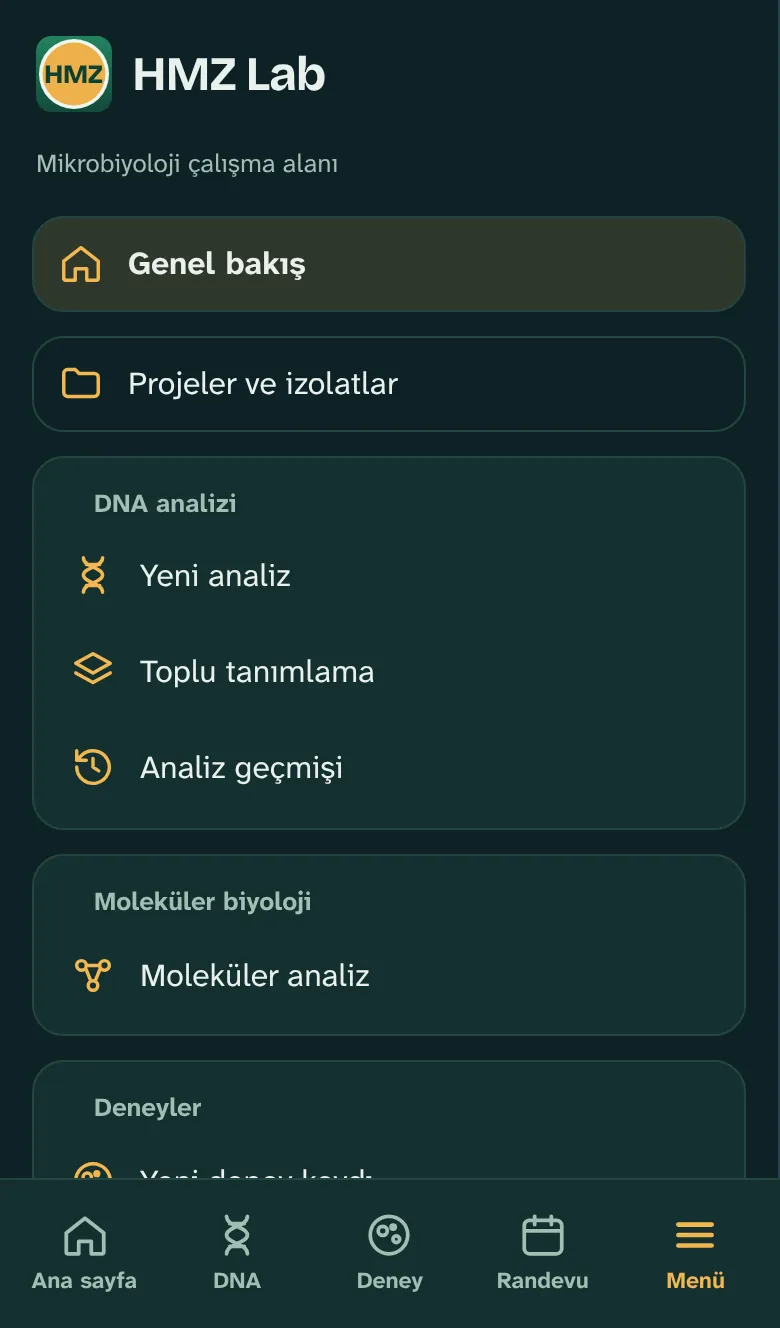
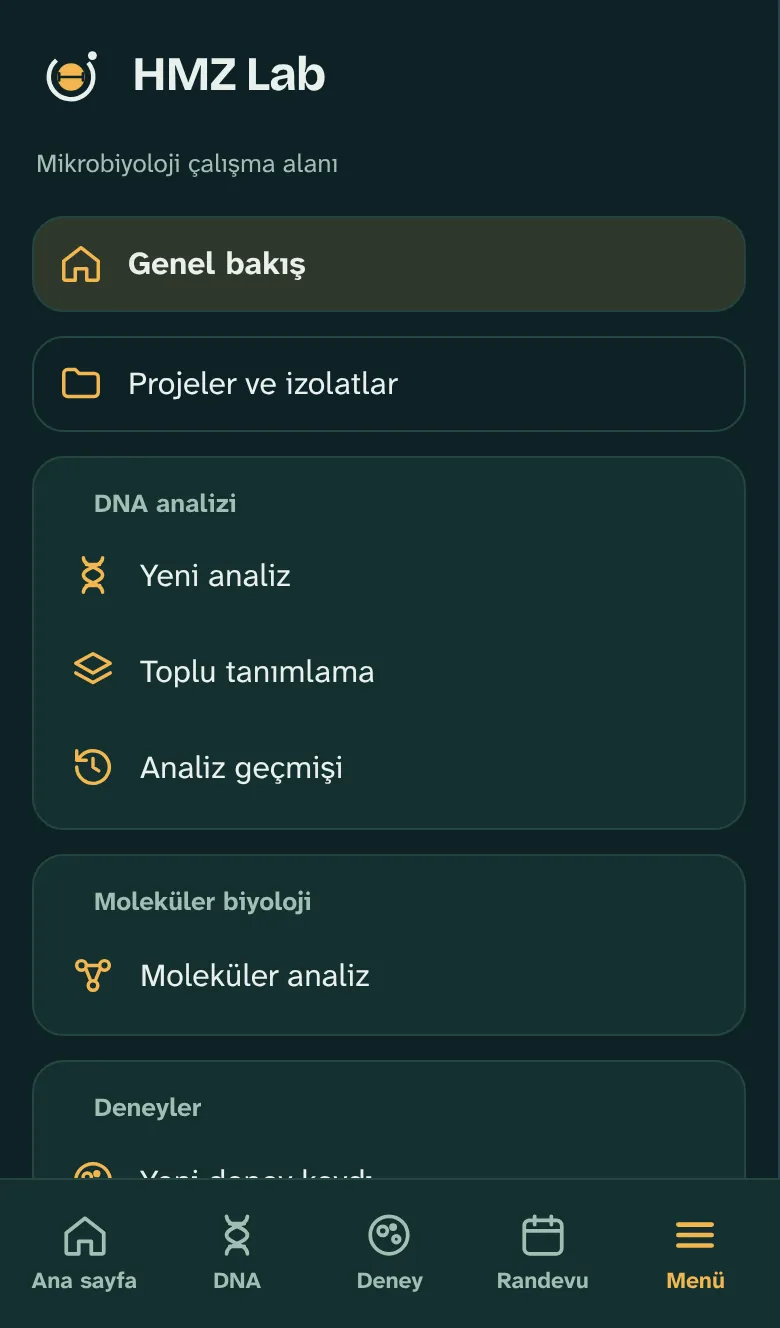
Add files via upload

Changed region(s): [[0.0308, 0.0, 0.1538, 0.0926]]

diff --git a/en-download.html b/en-download.html
@@ -28,7 +28,7 @@
 <main id="icerik">
 <section class="sayfa-bas"><div class="kap">
 <h1>Download HMZ Lab</h1>
-<p class="giris">Latest version 0.89.0, 19 November 2026. Download files only from this page; an installer obtained elsewhere may have been altered. The program’s interface is available in English and Turkish.</p>
+<p class="giris">Latest version 0.89.2, 20 November 2026. Download files only from this page; an installer obtained elsewhere may have been altered. The program’s interface is available in English and Turkish.</p>
 </div></section>
 
 <section class="bolum ilk"><div class="kap platformlar">
@@ -70,14 +70,14 @@
 
 <section class="bolum" aria-labelledby="yenilikler"><div class="kap dar">
 <h2 id="yenilikler">What’s new in this version</h2>
-<ul class="liste"><li>The program has a new name: HMZ Lab (formerly BioLab Nexus). Installing over the old version moves your records automatically.</li><li>Windows installer: no Python needed and no administrator permission asked for; the program opens in its own window and stops by itself when the window is closed. Records are kept in a separate folder that updates and uninstalling never delete.</li><li>Account security: the number of sessions open at the same time on one account is limited (2 by default; the administrator can choose 1–5). Signing in on another device closes the oldest session, and that device is told why. You can see and close your open sessions in Settings.</li><li>The program can now be used in English: choose it in the Language box in the top bar (on a phone, at the bottom of the Menu); your records are not translated.</li><li>The website is in English and Turkish, with English screenshots of the program on the English pages.</li><li>Account requests and approval: the invitation goes to the school email address, and people choose their own username.</li></ul>
+<ul class="liste"><li>The program has a new name: HMZ Lab (formerly BioLab Nexus). Installing over the old version moves your records automatically.</li><li>A new logo: an inhibition zone with a measuring line, in the program’s dark green and amber.</li><li>Windows installer: no Python needed and no administrator permission asked for; the program opens in its own window and stops by itself when the window is closed. Records are kept in a separate folder that updates and uninstalling never delete.</li><li>Account security: the number of sessions open at the same time on one account is limited (2 by default; the administrator can choose 1–5). Signing in on another device closes the oldest session, and that device is told why. You can see and close your open sessions in Settings.</li><li>The program can now be used in English: choose it in the Language box in the top bar (on a phone, at the bottom of the Menu); your records are not translated.</li><li>The website is in English and Turkish, with English screenshots of the program on the English pages.</li><li>Account requests and approval: the invitation goes to the school email address, and people choose their own username.</li></ul>
 </div></section>
 
 </main>
 <footer class="alt"><div class="kap alt-ic">
 <div><p class="alt-marka">HMZ Lab</p><p>Records, 16S identification, experiment and instrument booking software for microbiology laboratories.</p></div>
 <nav aria-label="Footer links"><a href="en-download.html">Download</a><a href="en-institutions.html">For institutions</a><a href="en-help.html">Help</a><a href="en-privacy.html">Privacy</a><a href="mailto:iletisim@ornek.com">Contact</a></nav>
-<p class="telif">© 2026 Furkan Koç. All rights reserved. HMZ Lab may be used only under a written licence agreement. Latest version 0.89.0 (19 November 2026).</p>
+<p class="telif">© 2026 Furkan Koç. All rights reserved. HMZ Lab may be used only under a written licence agreement. Latest version 0.89.2 (20 November 2026).</p>
 </div></footer>
 </body>
 </html>

diff --git a/indir.html b/indir.html
@@ -28,7 +28,7 @@
 <main id="icerik">
 <section class="sayfa-bas"><div class="kap">
 <h1>HMZ Lab’ı indirin</h1>
-<p class="giris">Son sürüm 0.89.0, 19 Kasım 2026. Dosyaları yalnız bu sayfadan indirin; başka bir yerden gelen kurulum dosyası değiştirilmiş olabilir.</p>
+<p class="giris">Son sürüm 0.89.2, 20 Kasım 2026. Dosyaları yalnız bu sayfadan indirin; başka bir yerden gelen kurulum dosyası değiştirilmiş olabilir.</p>
 </div></section>
 
 <section class="bolum ilk"><div class="kap platformlar">
@@ -70,14 +70,14 @@
 
 <section class="bolum" aria-labelledby="yenilikler"><div class="kap dar">
 <h2 id="yenilikler">Bu sürümde neler var?</h2>
-<ul class="liste"><li>Programın yeni adı HMZ Lab (önceki adı BioLab Nexus). Eski kurulumun üzerine kurulduğunda kayıtlar kendiliğinden taşınır.</li><li>Windows kurulum dosyası: Python gerekmez, yönetici izni istenmez; program kendi penceresinde açılır ve pencere kapanınca kendiliğinden durur. Kayıtlar ayrı bir klasörde tutulur; güncelleme ve kaldırma silmez.</li><li>Hesap güvenliği: bir hesapta aynı anda açık oturum sayısı sınırlı (varsayılan 2; yönetici 1–5 arası seçer). Başka bir cihazdan girilince en eski oturum kapanır ve o cihaza nedeni söylenir. Ayarlar’da açık oturumlarınızı görüp kapatabilirsiniz.</li><li>Program artık İngilizce de kullanılabiliyor: üst çubuktaki Dil kutusundan (telefonda Menü’nün en altından) seçilir; kayıtlar çevrilmez.</li><li>Site Türkçe ve İngilizce; İngilizce sayfalarda programın İngilizce ekran görüntüleri.</li><li>Hesap talebi ve onay akışı: okul e-postasına giden davet, kullanıcı adını kişinin kendisinin seçmesi.</li></ul>
+<ul class="liste"><li>Programın yeni adı HMZ Lab (önceki adı BioLab Nexus). Eski kurulumun üzerine kurulduğunda kayıtlar kendiliğinden taşınır.</li><li>Yeni logo: inhibisyon zonu ve ölçü çizgisi, programın koyu yeşil ve amber renkleriyle.</li><li>Windows kurulum dosyası: Python gerekmez, yönetici izni istenmez; program kendi penceresinde açılır ve pencere kapanınca kendiliğinden durur. Kayıtlar ayrı bir klasörde tutulur; güncelleme ve kaldırma silmez.</li><li>Hesap güvenliği: bir hesapta aynı anda açık oturum sayısı sınırlı (varsayılan 2; yönetici 1–5 arası seçer). Başka bir cihazdan girilince en eski oturum kapanır ve o cihaza nedeni söylenir. Ayarlar’da açık oturumlarınızı görüp kapatabilirsiniz.</li><li>Program artık İngilizce de kullanılabiliyor: üst çubuktaki Dil kutusundan (telefonda Menü’nün en altından) seçilir; kayıtlar çevrilmez.</li><li>Site Türkçe ve İngilizce; İngilizce sayfalarda programın İngilizce ekran görüntüleri.</li><li>Hesap talebi ve onay akışı: okul e-postasına giden davet, kullanıcı adını kişinin kendisinin seçmesi.</li></ul>
 </div></section>
 
 </main>
 <footer class="alt"><div class="kap alt-ic">
 <div><p class="alt-marka">HMZ Lab</p><p>Mikrobiyoloji laboratuvarları için kayıt, 16S tanımlama, deney ve cihaz randevu programı.</p></div>
 <nav aria-label="Alt bağlantılar"><a href="indir.html">İndir</a><a href="kurumlar.html">Kurumlar için</a><a href="yardim.html">Yardım</a><a href="gizlilik.html">Gizlilik</a><a href="mailto:iletisim@ornek.com">İletişim</a></nav>
-<p class="telif">© 2026 Furkan Koç. Tüm hakları saklıdır. HMZ Lab yalnız yazılı lisans sözleşmesiyle kullanılabilir. Son sürüm 0.89.0 (19 Kasım 2026).</p>
+<p class="telif">© 2026 Furkan Koç. Tüm hakları saklıdır. HMZ Lab yalnız yazılı lisans sözleşmesiyle kullanılabilir. Son sürüm 0.89.2 (20 Kasım 2026).</p>
 </div></footer>
 </body>
 </html>

diff --git a/gizlilik.html b/gizlilik.html
@@ -48,14 +48,14 @@
 <li>Parolalar geri döndürülemeyen biçimde saklanır ve hiçbir zaman e-postayla gönderilmez.</li>
 </ul>
 
-<p class="kucuk">Son güncelleme: 19 Kasım 2026.</p>
+<p class="kucuk">Son güncelleme: 20 Kasım 2026.</p>
 </div></section>
 
 </main>
 <footer class="alt"><div class="kap alt-ic">
 <div><p class="alt-marka">HMZ Lab</p><p>Mikrobiyoloji laboratuvarları için kayıt, 16S tanımlama, deney ve cihaz randevu programı.</p></div>
 <nav aria-label="Alt bağlantılar"><a href="indir.html">İndir</a><a href="kurumlar.html">Kurumlar için</a><a href="yardim.html">Yardım</a><a href="gizlilik.html">Gizlilik</a><a href="mailto:iletisim@ornek.com">İletişim</a></nav>
-<p class="telif">© 2026 Furkan Koç. Tüm hakları saklıdır. HMZ Lab yalnız yazılı lisans sözleşmesiyle kullanılabilir. Son sürüm 0.89.0 (19 Kasım 2026).</p>
+<p class="telif">© 2026 Furkan Koç. Tüm hakları saklıdır. HMZ Lab yalnız yazılı lisans sözleşmesiyle kullanılabilir. Son sürüm 0.89.2 (20 Kasım 2026).</p>
 </div></footer>
 </body>
 </html>

diff --git a/en-privacy.html b/en-privacy.html
@@ -48,14 +48,14 @@
 <li>Passwords are stored in a form that cannot be reversed and are never sent by email.</li>
 </ul>
 
-<p class="kucuk">Last updated: 19 November 2026.</p>
+<p class="kucuk">Last updated: 20 November 2026.</p>
 </div></section>
 
 </main>
 <footer class="alt"><div class="kap alt-ic">
 <div><p class="alt-marka">HMZ Lab</p><p>Records, 16S identification, experiment and instrument booking software for microbiology laboratories.</p></div>
 <nav aria-label="Footer links"><a href="en-download.html">Download</a><a href="en-institutions.html">For institutions</a><a href="en-help.html">Help</a><a href="en-privacy.html">Privacy</a><a href="mailto:iletisim@ornek.com">Contact</a></nav>
-<p class="telif">© 2026 Furkan Koç. All rights reserved. HMZ Lab may be used only under a written licence agreement. Latest version 0.89.0 (19 November 2026).</p>
+<p class="telif">© 2026 Furkan Koç. All rights reserved. HMZ Lab may be used only under a written licence agreement. Latest version 0.89.2 (20 November 2026).</p>
 </div></footer>
 </body>
 </html>

diff --git a/en.html b/en.html
@@ -129,7 +129,7 @@
 <footer class="alt"><div class="kap alt-ic">
 <div><p class="alt-marka">HMZ Lab</p><p>Records, 16S identification, experiment and instrument booking software for microbiology laboratories.</p></div>
 <nav aria-label="Footer links"><a href="en-download.html">Download</a><a href="en-institutions.html">For institutions</a><a href="en-help.html">Help</a><a href="en-privacy.html">Privacy</a><a href="mailto:iletisim@ornek.com">Contact</a></nav>
-<p class="telif">© 2026 Furkan Koç. All rights reserved. HMZ Lab may be used only under a written licence agreement. Latest version 0.89.0 (19 November 2026).</p>
+<p class="telif">© 2026 Furkan Koç. All rights reserved. HMZ Lab may be used only under a written licence agreement. Latest version 0.89.2 (20 November 2026).</p>
 </div></footer>
 </body>
 </html>

diff --git a/en-help.html b/en-help.html
@@ -75,7 +75,7 @@
 <footer class="alt"><div class="kap alt-ic">
 <div><p class="alt-marka">HMZ Lab</p><p>Records, 16S identification, experiment and instrument booking software for microbiology laboratories.</p></div>
 <nav aria-label="Footer links"><a href="en-download.html">Download</a><a href="en-institutions.html">For institutions</a><a href="en-help.html">Help</a><a href="en-privacy.html">Privacy</a><a href="mailto:iletisim@ornek.com">Contact</a></nav>
-<p class="telif">© 2026 Furkan Koç. All rights reserved. HMZ Lab may be used only under a written licence agreement. Latest version 0.89.0 (19 November 2026).</p>
+<p class="telif">© 2026 Furkan Koç. All rights reserved. HMZ Lab may be used only under a written licence agreement. Latest version 0.89.2 (20 November 2026).</p>
 </div></footer>
 </body>
 </html>

diff --git a/en-institutions.html b/en-institutions.html
@@ -91,7 +91,7 @@
 <footer class="alt"><div class="kap alt-ic">
 <div><p class="alt-marka">HMZ Lab</p><p>Records, 16S identification, experiment and instrument booking software for microbiology laboratories.</p></div>
 <nav aria-label="Footer links"><a href="en-download.html">Download</a><a href="en-institutions.html">For institutions</a><a href="en-help.html">Help</a><a href="en-privacy.html">Privacy</a><a href="mailto:iletisim@ornek.com">Contact</a></nav>
-<p class="telif">© 2026 Furkan Koç. All rights reserved. HMZ Lab may be used only under a written licence agreement. Latest version 0.89.0 (19 November 2026).</p>
+<p class="telif">© 2026 Furkan Koç. All rights reserved. HMZ Lab may be used only under a written licence agreement. Latest version 0.89.2 (20 November 2026).</p>
 </div></footer>
 </body>
 </html>

diff --git a/index.html b/index.html
@@ -129,7 +129,7 @@
 <footer class="alt"><div class="kap alt-ic">
 <div><p class="alt-marka">HMZ Lab</p><p>Mikrobiyoloji laboratuvarları için kayıt, 16S tanımlama, deney ve cihaz randevu programı.</p></div>
 <nav aria-label="Alt bağlantılar"><a href="indir.html">İndir</a><a href="kurumlar.html">Kurumlar için</a><a href="yardim.html">Yardım</a><a href="gizlilik.html">Gizlilik</a><a href="mailto:iletisim@ornek.com">İletişim</a></nav>
-<p class="telif">© 2026 Furkan Koç. Tüm hakları saklıdır. HMZ Lab yalnız yazılı lisans sözleşmesiyle kullanılabilir. Son sürüm 0.89.0 (19 Kasım 2026).</p>
+<p class="telif">© 2026 Furkan Koç. Tüm hakları saklıdır. HMZ Lab yalnız yazılı lisans sözleşmesiyle kullanılabilir. Son sürüm 0.89.2 (20 Kasım 2026).</p>
 </div></footer>
 </body>
 </html>

diff --git a/404.html b/404.html
@@ -30,7 +30,7 @@
 <footer class="alt"><div class="kap alt-ic">
 <div><p class="alt-marka">HMZ Lab</p><p>Mikrobiyoloji laboratuvarları için kayıt, 16S tanımlama, deney ve cihaz randevu programı.</p></div>
 <nav aria-label="Alt bağlantılar"><a href="indir.html">İndir</a><a href="kurumlar.html">Kurumlar için</a><a href="yardim.html">Yardım</a><a href="gizlilik.html">Gizlilik</a><a href="mailto:iletisim@ornek.com">İletişim</a></nav>
-<p class="telif">© 2026 Furkan Koç. Tüm hakları saklıdır. HMZ Lab yalnız yazılı lisans sözleşmesiyle kullanılabilir. Son sürüm 0.89.0 (19 Kasım 2026).</p>
+<p class="telif">© 2026 Furkan Koç. Tüm hakları saklıdır. HMZ Lab yalnız yazılı lisans sözleşmesiyle kullanılabilir. Son sürüm 0.89.2 (20 Kasım 2026).</p>
 </div></footer>
 </body>
 </html>

diff --git a/kurumlar.html b/kurumlar.html
@@ -91,7 +91,7 @@
 <footer class="alt"><div class="kap alt-ic">
 <div><p class="alt-marka">HMZ Lab</p><p>Mikrobiyoloji laboratuvarları için kayıt, 16S tanımlama, deney ve cihaz randevu programı.</p></div>
 <nav aria-label="Alt bağlantılar"><a href="indir.html">İndir</a><a href="kurumlar.html">Kurumlar için</a><a href="yardim.html">Yardım</a><a href="gizlilik.html">Gizlilik</a><a href="mailto:iletisim@ornek.com">İletişim</a></nav>
-<p class="telif">© 2026 Furkan Koç. Tüm hakları saklıdır. HMZ Lab yalnız yazılı lisans sözleşmesiyle kullanılabilir. Son sürüm 0.89.0 (19 Kasım 2026).</p>
+<p class="telif">© 2026 Furkan Koç. Tüm hakları saklıdır. HMZ Lab yalnız yazılı lisans sözleşmesiyle kullanılabilir. Son sürüm 0.89.2 (20 Kasım 2026).</p>
 </div></footer>
 </body>
 </html>

diff --git a/yardim.html b/yardim.html
@@ -75,7 +75,7 @@
 <footer class="alt"><div class="kap alt-ic">
 <div><p class="alt-marka">HMZ Lab</p><p>Mikrobiyoloji laboratuvarları için kayıt, 16S tanımlama, deney ve cihaz randevu programı.</p></div>
 <nav aria-label="Alt bağlantılar"><a href="indir.html">İndir</a><a href="kurumlar.html">Kurumlar için</a><a href="yardim.html">Yardım</a><a href="gizlilik.html">Gizlilik</a><a href="mailto:iletisim@ornek.com">İletişim</a></nav>
-<p class="telif">© 2026 Furkan Koç. Tüm hakları saklıdır. HMZ Lab yalnız yazılı lisans sözleşmesiyle kullanılabilir. Son sürüm 0.89.0 (19 Kasım 2026).</p>
+<p class="telif">© 2026 Furkan Koç. Tüm hakları saklıdır. HMZ Lab yalnız yazılı lisans sözleşmesiyle kullanılabilir. Son sürüm 0.89.2 (20 Kasım 2026).</p>
 </div></footer>
 </body>
 </html>
